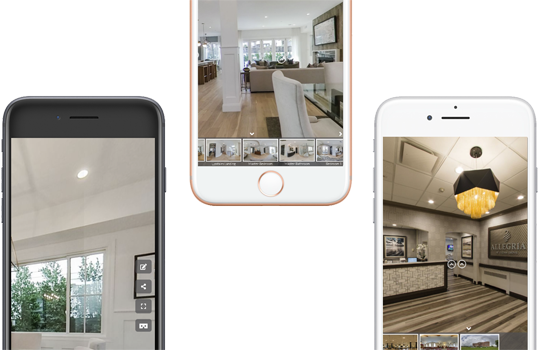
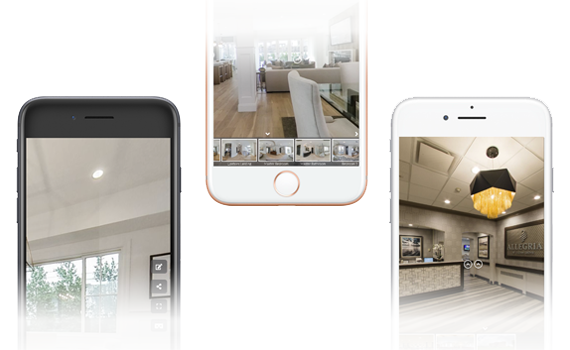
Changes

diff --git a/index.html b/index.html
@@ -340,7 +340,7 @@
     <section id="about-big2" class="section" style="padding-bottom: unset;">
       <div class="row">
         <div class="col-sm-12 text-center">
-          <h1>How CloudPano works</h1>
+          <h1>How CloudPano Works</h1>
           <p class="text-muted sub-title">
             Create any tour with our easy three-step process.
           </p>
@@ -441,12 +441,12 @@
 	<section class="whatis section" id="whatis">
 	  <div class="container">
 	    <div class="row">
-			<div class="col-md-6" data-aos="slide-right">
-				<img src="img/iphone8-mockup.png">
+			<div class="col-md-6 text-center" data-aos="slide-right">
+				<img src="img/iphone8-mockup.png" class="img-responsive">
 			</div>
 			<div class="col-md-6">
 				<div class="feature-heading" data-aos="fade-up">
-				  <h4 class="color">Introduction</h4>
+				  <h4 class="color">Getting Started</h4>
 				</div>
 			  <h1 class="h1 feature" data-aos="fade-up">What is a 360 Virtual Tour?</h1>
 			  <p class="feature-text" data-aos="fade-up">
@@ -454,12 +454,17 @@
 				view and share a space in an immersive 360 environment. 
 				With a smartphone, the CloudPano viewer responds to your movement. 
 				This creates a responsive and immersive 
-				view of the property.<br>
+				view of the property.
 				Create your first 360 virtual tour in 5 minutes or less				 
 			  </p>
-			  <a href="http://app.cloudpano.com" class="featureButton">
-					Click Here</a
-				>
+			  <div class="what-btn-wrapper">
+				  <a href="http://app.cloudpano.com" class="featureButton">
+						Get Started</a
+					>
+					<a href="#screenshots" class="featureButton light">
+						View 360° Examples</a
+					>
+				</div>
 			</div>
 
 		</div>
@@ -1441,20 +1446,6 @@
               </div>
             </div>
           </div>
-          <div class="col-lg-12 qa-cont-inr">
-            <div class="qa-cont-fj">
-              <img src="img/CloudPano_qa.png">
-              <div class="qa-tt">
-                <p>If I want to market 360 tours will CloudPano do you provide 
-                business marketing support?</p>
-              </div>
-              <div class="qa-dsc">
-                <p>CloudPano empowers virtual tour creators through Provider  School. 
-                A membership portal to help you learn actional business tips to 
-              market and sell virtual tour services.</p>
-              </div>
-            </div>
-          </div>
         </div>
       </div>
     </section>
@@ -1683,8 +1674,34 @@
     </script>
     <!-- End Inspectlet Asynchronous Code -->
 
-    <!-- ManyChat -->
-    <script src="//widget.manychat.com/1794165787366692.js" async="async"></script>
+		<!-- Start of Async Drift Code -->
+<script>
+	"use strict";
+	
+	!function() {
+	  var t = window.driftt = window.drift = window.driftt || [];
+	  if (!t.init) {
+		if (t.invoked) return void (window.console && console.error && console.error("Drift snippet included twice."));
+		t.invoked = !0, t.methods = [ "identify", "config", "track", "reset", "debug", "show", "ping", "page", "hide", "off", "on" ], 
+		t.factory = function(e) {
+		  return function() {
+			var n = Array.prototype.slice.call(arguments);
+			return n.unshift(e), t.push(n), t;
+		  };
+		}, t.methods.forEach(function(e) {
+		  t[e] = t.factory(e);
+		}), t.load = function(t) {
+		  var e = 3e5, n = Math.ceil(new Date() / e) * e, o = document.createElement("script");
+		  o.type = "text/javascript", o.async = !0, o.crossorigin = "anonymous", o.src = "https://js.driftt.com/include/" + n + "/" + t + ".js";
+		  var i = document.getElementsByTagName("script")[0];
+		  i.parentNode.insertBefore(o, i);
+		};
+	  }
+	}();
+	drift.SNIPPET_VERSION = '0.3.1';
+	drift.load('87z54e34be4z');
+	</script>
+	<!-- End of Async Drift Code -->
     
     <script
       src="https://my.hellobar.com/7f6b6c15978c3eb0da1c009446b0400ab94c0abb.js"

diff --git a/starter-kit/index.html b/starter-kit/index.html
@@ -548,8 +548,34 @@ developers to easy VR app programming. For technical questions, please contact t
       gtag("config", "UA-124568578-1");
     </script>
     
-    <!-- ManyChat -->
-    <script src="//widget.manychat.com/1794165787366692.js" async="async"></script>
+		<!-- Start of Async Drift Code -->
+<script>
+	"use strict";
+	
+	!function() {
+	  var t = window.driftt = window.drift = window.driftt || [];
+	  if (!t.init) {
+		if (t.invoked) return void (window.console && console.error && console.error("Drift snippet included twice."));
+		t.invoked = !0, t.methods = [ "identify", "config", "track", "reset", "debug", "show", "ping", "page", "hide", "off", "on" ], 
+		t.factory = function(e) {
+		  return function() {
+			var n = Array.prototype.slice.call(arguments);
+			return n.unshift(e), t.push(n), t;
+		  };
+		}, t.methods.forEach(function(e) {
+		  t[e] = t.factory(e);
+		}), t.load = function(t) {
+		  var e = 3e5, n = Math.ceil(new Date() / e) * e, o = document.createElement("script");
+		  o.type = "text/javascript", o.async = !0, o.crossorigin = "anonymous", o.src = "https://js.driftt.com/include/" + n + "/" + t + ".js";
+		  var i = document.getElementsByTagName("script")[0];
+		  i.parentNode.insertBefore(o, i);
+		};
+	  }
+	}();
+	drift.SNIPPET_VERSION = '0.3.1';
+	drift.load('87z54e34be4z');
+	</script>
+	<!-- End of Async Drift Code -->
 
   </body>
 </html>

diff --git a/getting-started/index.html b/getting-started/index.html
@@ -103,7 +103,7 @@
 								<h2>Next Steps</h2>
 								<ul>
 									<li>Use our sample 360 virtual tours to create your own virtual tour in seconds. Login and click ‘sample tour.’ <a href="http://app.cloudpano.com">Click here</a>.</li> 
-									<li>Claim our free training series - How To Photograph The Perfect 360 Tour - <a href="http://whynothomes.realtorhammer.com/f/23">Click here</a></li>
+									<li>Claim our free training series - How To Photograph The Perfect 360 Tour - <a href="https://zachcalhoun.activehosted.com/f/23">Click here</a></li>
 									<li>Need Equipment? Grab Our Headset, 360 Camera and Pro Plus Membership Bundle - <b>The CloudPano 360 Starter Kit</b> - <a href="/starter-kit">Click Here</a></li>
 								</ul>
 							</div>

diff --git a/add-to-cart/index.html b/add-to-cart/index.html
@@ -314,17 +314,6 @@ Hotspot Navigation, Provider Marketing School Access and More.</p>
 							</div>
 						</div>
 					</div>
-					<div class="col-lg-12 qa-cont-inr">
-						<div class="qa-cont-fj">
-							<img src="../img/CloudPano_qa.png">
-							<div class="qa-tt">
-								<p>If I want to market 360 tours will CloudPano do you provide business marketing support?</p>
-							</div>
-							<div class="qa-dsc">
-								<p>CloudPano empowers virtual tour creators through Provider  School. A membership portal to help you learn actional business tips to market and sell virtual tour services.</p>
-							</div>
-						</div>
-					</div>
 				</div>
 			</div>
 		</section>

diff --git a/css/style.css b/css/style.css
@@ -3032,7 +3032,6 @@ p.small {
     background-color: #4891EF;
     color: #fff !important;
     transition: .5s all;
-
 }
 
 .previewText {
@@ -3813,3 +3812,21 @@ cursor: pointer;
 
 .starter.additional img { max-width: 500px; width:100%; }
 .starter.additional .detail-item img { max-width:200px; }
+
+/** Fixes for rearest of occasions. */
+.what-btn-wrapper .featureButton {
+	display:inline-block!important;
+	margin-right:10px;
+	text-align: center;
+    padding: 8px;
+}
+.what-btn-wrapper .featureButton.light {
+	background: #b8d2f3a8;
+	color: #2062ef;
+}
+
+.featureButton.light:hover {
+    background-color: #4891EF;
+    color: #fff !important;
+    transition: .5s all;
+}
